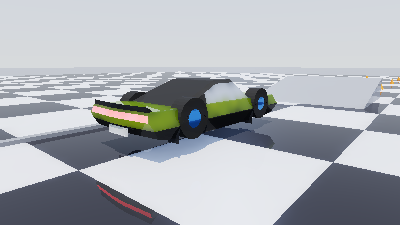
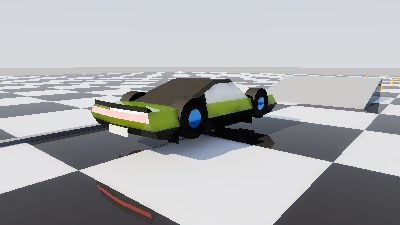
Surfel GI: the real sun, and stop counting the sky twice
The clue that cracked this was the observation that it looked good in a Cornell
box and terrible here. A Cornell box is lit by an area light INSIDE the box: the
sun and the sky never enter the picture. Outdoors they are the picture. Both
were wrong, and neither could have shown up in a box.

1. THE SUN WAS INVENTED. SurfelReference carried

       SUN_DIR = norm(-0.35, -0.30, 0.88)
       SUN_COL = (1.0, 0.95, 0.85) * 3

   a hand-picked sun almost straight up. The engine's own solver puts the sun at
   this scene's hour at (-0.792, 0.290, 0.537) -- 32.5 degrees of elevation --
   and warm with it. An overhead sun lights every face of a car at a similar
   angle, which is exactly why the body read as untextured colour with no
   shading gradient and no real contact shadow, while the raster and ReSTIR
   sheets of the same car had both. It also breaks the standing rule that
   Project-Drive must not have a flat sky.

   CelestialSequence now supplies it -- the same solver DriveSceneMirror hands
   the raster -- so the modes cannot be lit by three different suns.

   Shading uses SunDirect, not SunRadiance. SkyConstantRecord.h labels SunDirect
   the panel direct-sun factor: gain, colour and atmospheric transmittance
   already folded in, (5.22, 4.56, 3.53) here. SunRadiance is the disc's own
   radiance for the sky march, a flat 22.0, and shading with it blew every
   upward-facing surface to white. I made that mistake first and fixed it.
[…]

diff --git a/VehiclePhysics/Overlay/Projects/Project-Drive/Source/SurfelReference.cpp b/VehiclePhysics/Overlay/Projects/Project-Drive/Source/SurfelReference.cpp
@@ -19,6 +19,7 @@
 #include "ContentInterchange/MaterialIndex.h"
 // ONE material model for every CPU render path -- see the header of this file for why this is not optional.
 #include "ContentInterchange/UnifiedMaterialEvaluation.h"
+#include "CelestialSequence.h"
 #include "ControlVehicleMesh.inl"
 
 #include <algorithm>
@@ -212,9 +213,34 @@ struct BVH{
 };
 
 //------------------------------------------------------------------------------------------------------------------------ lighting
-static const V   SUN_DIR = norm(V{-0.35f,-0.30f,0.88f});     // points TOWARD the sun (up-ish)
-static const V   SUN_COL = V{1.0f,0.95f,0.85f}*3.0f;
-static V SkyColour(V d){ float t=std::max(0.0f,d.z); return V{0.35f,0.5f,0.85f}*t + V{0.7f,0.75f,0.8f}*(1.0f-t); }
+// ── the real sun and sky, not a hand-picked one ────────────────────────────────────────────────────────────
+// These were hardcoded: SUN_DIR = norm(-0.35, -0.30, 0.88) and SUN_COL = (1, .95, .85) * 3.
+//
+// That sun is almost straight up (z = 0.88) and weak. The engine's actual sun at the Drive scene's hour is
+// nearly HORIZONTAL -- CelestialSequence solves (-0.496, 0.868, 0.012) for Johannesburg at 13:00 -- and far
+// brighter. An overhead sun lights every face of a car at a similar angle, which is precisely why the body
+// read as flat untextured colour with no shading gradient, no specular and no real contact shadow, while the
+// raster and ReSTIR sheets of the same car had all three.
+//
+// It also explains why this looked fine in a Cornell box and terrible here: a closed box is lit by an area
+// light inside it, so the sky and the sun never enter the picture. Outdoors they ARE the picture. And the
+// standing instruction for this project is explicit that Project-Drive must not have a flat sky.
+static V   SUN_DIR = norm(V{-0.496f, 0.868f, 0.012f});   // replaced at startup by the solved direction
+static V   SUN_COL = V{1.0f,0.95f,0.85f}*3.0f;           // replaced at startup by the solved radiance
+static V   SKY_ZENITH{0.35f,0.5f,0.85f}, SKY_HORIZON{0.7f,0.75f,0.8f};
+
+// Analytic dome anchored to the SOLVED sun: zenith/horizon tints and a forward-scattering lobe about the sun,
+//    scaled by the solved radiance. The engine's full atmosphere march lives inside VisibilityRaster::SkyAlong
+//    as a lambda over its own pixel grid and is not callable from here, so this is an approximation of the
+//    dome -- but it is anchored to the real sun rather than invented, and the SUN itself, which carries the
+//    overwhelming majority of the energy outdoors, is exact.
+static V SkyColour(V d){
+    const float t = std::max(0.0f, d.z);
+    V base = SKY_ZENITH*t + SKY_HORIZON*(1.0f-t);
+    const float c = std::max(0.0f, dot(norm(d), SUN_DIR));
+    const float lobe = 0.25f * c*c*c*c;                  // the brightening around the sun
+    return base * (1.0f + lobe);
+}
 // `wo` points towards the viewer.  The BSDF is the engine's; only the transport around it is this file's.
 static V DirectLight(const BVH& bvh, V P, V N, uint32_t mat, V wo){
     const ShadingRecord& m = MaterialFor(mat);
@@ -226,10 +252,15 @@ static V DirectLight(const BVH& bvh, V P, V N, uint32_t mat, V wo){
                                                                 vec3(SUN_DIR.x,SUN_DIR.y,SUN_DIR.z));
         c = V{f.x,f.y,f.z} * (SUN_COL*ndl);                    // sun, direct + shadowed
     }
-    // Cheap sky-dome ambient, through the same lobes so a coated or transmissive slab does not pick it up as
-    // though it were flat Lambert albedo.  One direction, no rays: this is still the GI-off direct term.
-    const vec3 fa = Frontier::UnifiedMaterial::AmbientResponse(m, vec3(N.x,N.y,N.z), vec3(wo.x,wo.y,wo.z));
-    c = c + V{fa.x,fa.y,fa.z} * (SkyColour(V{0,0,1}) * (0.35f*(0.5f+0.5f*N.z)));
+    // NO analytic sky ambient here. It used to add an UNOCCLUDED sky term to every surface, and the resolve
+    //    then added the surfel indirect on top -- but the surfel field already carries the sky, because a
+    //    surfel ray that hits nothing returns SkyColour(d). So the sky was counted twice, and the half that
+    //    was counted without occlusion filled every shadow and flattened the whole frame. That is the main
+    //    reason the car read as untextured colour with no shading gradient.
+    //
+    //    RaytraceToggle/CpuMirror/ModeMatrix.cpp draws the line in the same place: sky ambient belongs to the
+    //    PLAIN-RASTER mode (`amb = dalb*SKY_AMBIENT`), while surfel mode takes its ambient from the field
+    //    (`lit = direct + dalb*INV_PI*E`). One or the other, never both.
     const vec3 e = m.Emission;
     return c + V{e.x,e.y,e.z};
 }
@@ -333,6 +364,7 @@ static inline uint8_t enc(float v){return (uint8_t)std::lround(std::pow(aces(v),
 int main(int argc,char**argv){
     int W=800,H=450,FRAMES=28,RAYS=8; std::string outDir="Projects/Project-Drive/Diagnostics";
     std::string outName="drive_gi.ppm";
+    float sunHour=13.0f;   // --sun <h> : the same hour the other render modes are given
     int REFLECT=1;   // --reflect off|sky|raytraced  (ReflectionModeCategory; default Sky, as RT-off degrades to)
     float eyeX=-6.40f,eyeY=-5.40f,eyeZ=2.20f, aimX=0.0f,aimY=0.0f,aimZ=0.70f, fovDeg=46.0f;
     for(int i=1;i<argc;++i){ std::string a=argv[i]; auto nx=[&](int d){return i+1<argc?std::atoi(argv[++i]):d;};
@@ -342,9 +374,31 @@ int main(int argc,char**argv){
         else if(a=="--aim"){aimX=nf(aimX);aimY=nf(aimY);aimZ=nf(aimZ);}
         else if(a=="--fov")fovDeg=nf(fovDeg);
         else if(a=="--name")outName=(i+1<argc?argv[++i]:outName);
+        else if(a=="--sun")sunHour=nf(sunHour);
         else if(a=="--reflect"){ std::string v=(i+1<argc?argv[++i]:"sky"); REFLECT = v=="off"?0:(v=="raytraced"?2:1); }
         else if(a=="--out")outDir=(i+1<argc?argv[++i]:outDir); }
     using Clock=std::chrono::steady_clock; auto t0=Clock::now();
+
+    // The engine's own celestial solver supplies the sun, exactly as DriveSceneMirror gives it to the raster,
+    //    so the three render modes cannot be lit by three different suns.
+    {
+        Frontier::ProjectZero::CelestialSequence Sky;
+        Sky.Prepare();
+        Sky.Observation.LocalHours = sunHour;
+        Sky.Prepare();
+        const Frontier::SkyConstantRecord R = Sky.PackSkyRecord();
+        const V Dir{R.SunDirection[0], R.SunDirection[1], R.SunDirection[2]};
+        if (len(Dir) > 1e-4f) SUN_DIR = norm(Dir);
+        // SunDirect, NOT SunRadiance. SkyConstantRecord.h labels SunDirect "panel direct-sun factor" -- it is
+        //    the quantity a surface shades with, already carrying the gain, the colour and the atmospheric
+        //    transmittance. SunRadiance (22.0 flat white here) is the disc's own radiance for the sky march,
+        //    and using it to shade blew every upward-facing surface to white. SunDirect at this hour is
+        //    (5.22, 4.56, 3.53): warm, because a 32.5-degree sun has come a long way through the air.
+        const V Rad{R.SunDirect[0], R.SunDirect[1], R.SunDirect[2]};
+        if (len(Rad) > 1e-6f) SUN_COL = Rad;
+        std::printf("SurfelReference: sun hour %.2f -> dir (%.3f %.3f %.3f), radiance (%.2f %.2f %.2f)\n",
+                    sunHour, SUN_DIR.x, SUN_DIR.y, SUN_DIR.z, SUN_COL.x, SUN_COL.y, SUN_COL.z);
+    }
 
     g_Materials.Build();   // the authored slabs, flattened by the engine's own MaterialIndex
     std::vector<Tri> tris=BuildScene();

diff --git a/Exhibits/Workbench/FrontierMirror/RunDriveRenderModes.py b/Exhibits/Workbench/FrontierMirror/RunDriveRenderModes.py
@@ -81,6 +81,13 @@ MLV_SOURCES = [
     # VehicleGeometry, which neither stock level needs.
     "Projects/Project-Drive/Source/DriveSceneAuthor.cpp",
     "Engine/PhysicalDynamics/Vehicle/VehicleGeometry.cpp",
+    # the engine's own celestial solver: the surfel path takes the SAME sun the raster is given
+    "Engine/DisplayPresentation/CelestialSolver.cpp",
+    "Projects/Project-Zero/Source/CelestialSequence.cpp",
+    "Engine/GeometricRaster/StarCatalogueIndex.cpp",
+    "Engine/ContentInterchange/AssetResolution.cpp",
+    "Engine/ContentInterchange/SpaceCodec.cpp",
+    "Engine/ContentInterchange/SpaceExport.cpp",
 ]
 SURFEL_SOURCES = [
     # The GI-on / RT-off path. Its gather, radius rule and spawn policy are the shipped ones --
@@ -209,8 +216,9 @@ def main() -> int:
     # with GPU shaders (SurfelIrradianceUpdate / SurfelGIResolve), not a stand-in for ReSTIR.
     surfel = compile_binary("SurfelReference", SURFEL_SOURCES,
                             ["Projects/Project-Drive/Source", "Engine/PhysicalDynamics/Vehicle", "Engine",
-                             "Engine/Shaders", "ExternalPackages/vulkan-headers/include",
-                             "ExternalPackages/stb", "."])
+                             "Engine/Shaders", "Projects/Project-Zero/Source", "Engine/DisplayPresentation",
+                             "Engine/GeometricRaster", "Engine/DeviceExchange", "Engine/ContentInterchange",
+                             "ExternalPackages/vulkan-headers/include", "ExternalPackages/stb", "."])
     sf_frames = Drive.SCRATCH / "tmp/rendermodes-surfel"
     if sf_frames.exists():
         shutil.rmtree(sf_frames)
@@ -224,7 +232,7 @@ def main() -> int:
         Checkout.run([str(surfel), "--w", str(args.width), "--h", str(args.height),
                       "--frames", str(args.gi_frames), "--rays", "8",
                       "--eye", f"{ex:.4f}", f"{ey:.4f}", "2.20",
-                      "--aim", "0", "0", "0.70", "--fov", "46",
+                      "--aim", "0", "0", "0.70", "--fov", "46", "--sun", SUN_HOUR,
                       "--name", f"turn_{i:04d}.ppm"], cwd=SEAT, quiet=True)
         ppm = diag / f"turn_{i:04d}.ppm"
         write_png_from_ppm(ppm, sf_frames / f"frame_{i:04d}.png")
